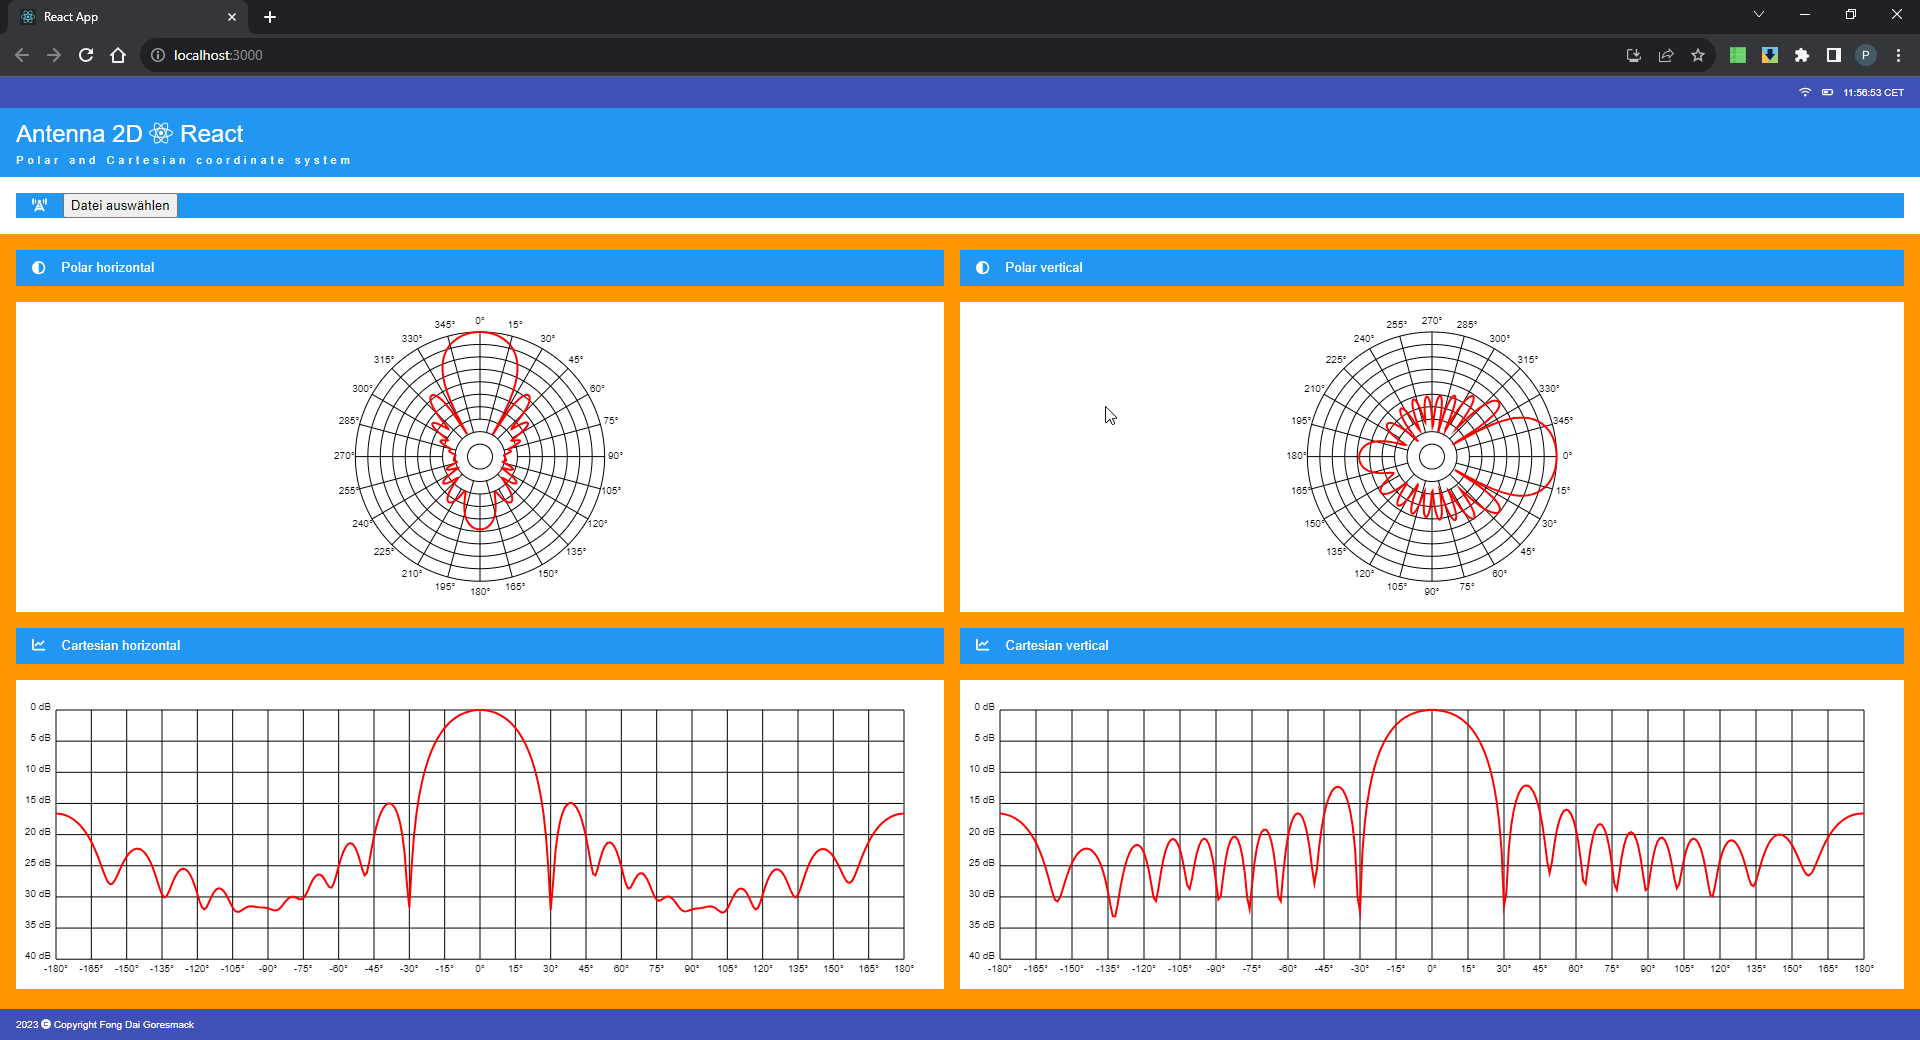
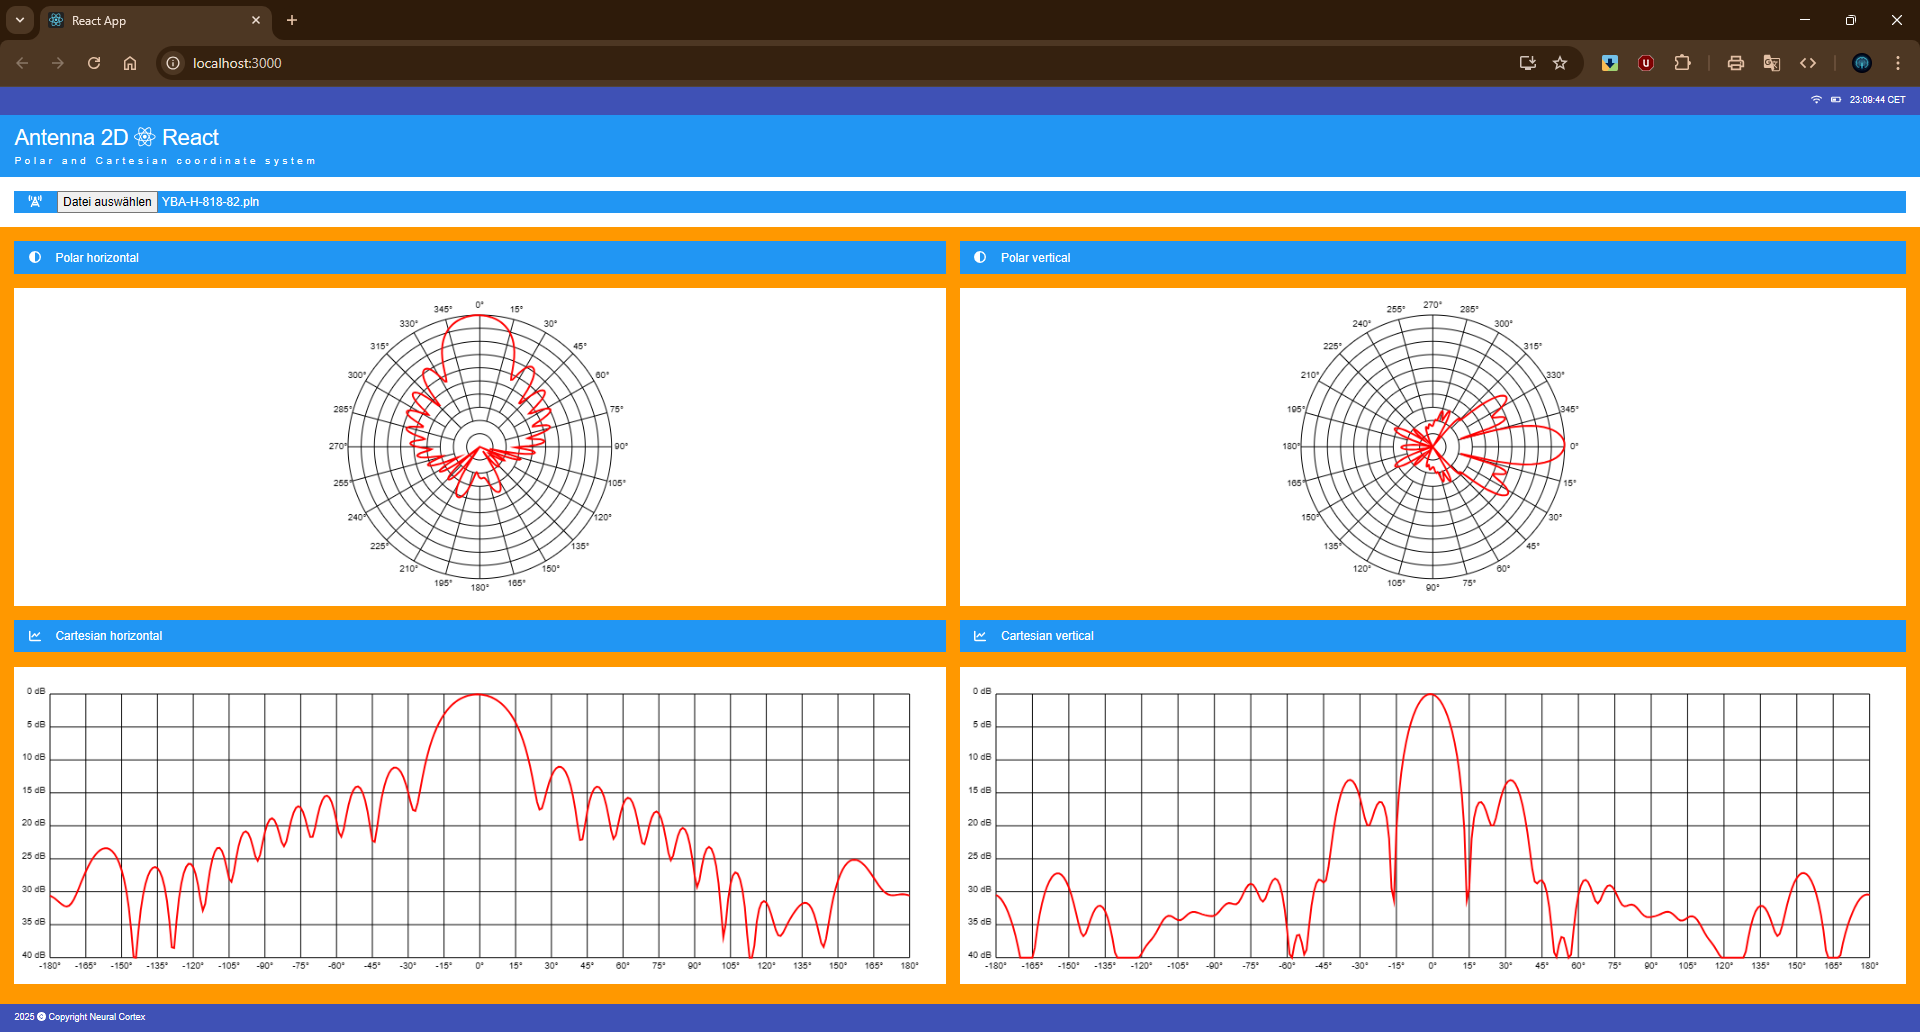
README.md Update

Changed region(s): [[0.0, 0.0, 1.0, 0.9922]]

diff --git a/src/components/Footer.jsx b/src/components/Footer.jsx
@@ -18,7 +18,7 @@ export class Footer extends Component {
     render() {
         return (
             <footer id="footer" className="w3-container w3-indigo w3-padding w3-tiny">
-                <label>{this.state.year} <FontAwesomeIcon icon="copyright"></FontAwesomeIcon> Copyright Fong Dai Goresmack</label>
+                <label>{this.state.year} <FontAwesomeIcon icon="copyright"></FontAwesomeIcon> Copyright Neural Cortex</label>
             </footer>
         );
     }

diff --git a/README.md b/README.md
@@ -1,25 +1,60 @@
-# Antenna 2D-Viewer React 1.0.0
+# Antenna 2D Viewer React 1.0.0
 
-The Antenna 2D viewer is a Web-App based on React that enables the user to view a radio antenna in Polar-view and Cartesian-View at the same time.</br>
+The Antenna 2D Viewer is a React-based web application that enables users to visualize radio antenna radiation patterns in both polar and Cartesian views simultaneously. This tool is designed for engineers, researchers, and enthusiasts working with antenna design and analysis.
 
-## How the web app works
+## Features
 
-To use the app, you need to execute following steps:
-1. Install Node.js
-2. Go to the project's main directory.
-3. Type `npm install` - Wait for Completion
-4. Type `npm start` for Development-Mode or
-5. Or type `npm run build` for Production-Mode
+- **Dual Visualization**: Displays antenna radiation patterns in both polar (radial) and Cartesian (rectangular) coordinate systems.
+- **Horizontal and Vertical Patterns**: Supports visualization of antenna performance in both azimuthal (horizontal) and elevation (vertical) planes.
+- **User-Friendly Interface**: Built with React for a responsive and interactive experience.
+- **Custom Data Input**: Accepts antenna pattern data via a structured text file.
 
-## Structure of a file
+## Antenna Patterns Explained
 
-The antenna to be imported must be available as a text file.
+Antenna radiation patterns illustrate how an antenna radiates or receives energy as a function of direction, which is critical for applications like wireless communications, radar, and broadcasting. The Antenna 2D Viewer provides two complementary views:
 
-### Internal structure
+- **Polar View**: Plots signal strength (attenuation in dB) as a function of angle (0° to 359°) in a polar coordinate system. The radial distance from the center represents attenuation, and the angular position indicates direction. This view highlights:
+  - **Main Lobe**: The direction of maximum radiation.
+  - **Side Lobes**: Secondary radiation directions.
+  - **Nulls**: Directions with minimal radiation.
+  For example, a directional antenna shows a prominent main lobe, while an omnidirectional antenna displays a near-circular pattern.
 
-The text file must contain following data:
+- **Cartesian View**: Plots attenuation (y-axis) against angle (x-axis, 0° to 359°) in a rectangular coordinate system. This view is ideal for analyzing specific angular ranges and comparing signal strengths, offering a linear perspective on the same data.
 
-<pre>
+The app supports both **horizontal** (azimuthal plane) and **vertical** (elevation plane) radiation patterns, enabling comprehensive analysis of an antenna's three-dimensional performance.
+
+## Installation
+
+To set up the Antenna 2D Viewer, follow these steps:
+
+1. **Install Node.js**: Download and install [Node.js](https://nodejs.org) if not already installed.
+2. **Clone or Download the Repository**: Obtain the project files from the repository.
+3. **Navigate to the Project Directory**:
+   ```bash
+   cd path/to/antenna-2d-viewer
+   ```
+4. **Install Dependencies**:
+   ```bash
+   npm install
+   ```
+   Wait for the installation to complete.
+5. **Run the Application**:
+   - For development mode:
+     ```bash
+     npm start
+     ```
+     This starts a local development server, typically at `http://localhost:3000`.
+   - For production mode:
+     ```bash
+     npm run build
+     ```
+     This creates an optimized build in the `build/` directory.
+
+## Input File Structure
+
+The app requires antenna pattern data in a text file with the following structure:
+
+```plaintext
 HORIZONTAL
 0 0.000
 1 0.001
@@ -41,84 +76,23 @@ VERTICAL
 357 0.028
 358 0.012
 359 0.003
-</pre>
+```
 
-The first value is the angle (0° - 359°).</br>
-The second value is the attenuation (0dB - 40dB).
+- **Format**:
+  - Each line contains two values: the angle (0° to 359°) and the attenuation (0 dB to 40 dB).
+  - **Angle**: Represents the direction in the horizontal or vertical plane.
+  - **Attenuation**: Indicates signal strength, where lower dB values represent stronger signals and higher values indicate greater attenuation.
+- **Sections**:
+  - **HORIZONTAL**: Data for the azimuthal plane (360° around the antenna’s horizontal axis).
+  - **VERTICAL**: Data for the elevation plane (360° relative to the antenna’s vertical axis).
 
-## Technology used
+## Technologies Used
 
-This web app was created with Create React App.
+- **Create React App**: Bootstrapped with [Create React App](https://github.com/facebook/create-react-app) for a robust development environment.
+- **Node.js**: Powers the development server and dependency management.
+- **Visual Studio Code**: Recommended for code editing.
+- **Google Chrome**: Used for testing and debugging.
 
-The following tools were used:
+## Getting Started
 
-- [Visual Studio Code](https://code.visualstudio.com/)
-- [Node.js](https://nodejs.org)
-- [Google Chrome](https://www.google.com/chrome/)
-
-
-## Getting Started with Create React App
-
-This project was bootstrapped with [Create React App](https://github.com/facebook/create-react-app).
-
-## Available Scripts
-
-In the project directory, you can run:
-
-### `npm start`
-
-Runs the app in the development mode.\
-Open [http://localhost:3000](http://localhost:3000) to view it in your browser.
-
-The page will reload when you make changes.\
-You may also see any lint errors in the console.
-
-### `npm run build`
-
-Builds the app for production to the `build` folder.\
-It correctly bundles React in production mode and optimizes the build for the best performance.
-
-The build is minified and the filenames include the hashes.\
-Your app is ready to be deployed!
-
-See the section about [deployment](https://facebook.github.io/create-react-app/docs/deployment) for more information.
-
-### `npm run eject`
-
-**Note: this is a one-way operation. Once you `eject`, you can't go back!**
-
-If you aren't satisfied with the build tool and configuration choices, you can `eject` at any time. This command will remove the single build dependency from your project.
-
-Instead, it will copy all the configuration files and the transitive dependencies (webpack, Babel, ESLint, etc) right into your project so you have full control over them. All of the commands except `eject` will still work, but they will point to the copied scripts so you can tweak them. At this point you're on your own.
-
-You don't have to ever use `eject`. The curated feature set is suitable for small and middle deployments, and you shouldn't feel obligated to use this feature. However we understand that this tool wouldn't be useful if you couldn't customize it when you are ready for it.
-
-## Learn More
-
-You can learn more in the [Create React App documentation](https://facebook.github.io/create-react-app/docs/getting-started).
-
-To learn React, check out the [React documentation](https://reactjs.org/).
-
-### Code Splitting
-
-This section has moved here: [https://facebook.github.io/create-react-app/docs/code-splitting](https://facebook.github.io/create-react-app/docs/code-splitting)
-
-### Analyzing the Bundle Size
-
-This section has moved here: [https://facebook.github.io/create-react-app/docs/analyzing-the-bundle-size](https://facebook.github.io/create-react-app/docs/analyzing-the-bundle-size)
-
-### Making a Progressive Web App
-
-This section has moved here: [https://facebook.github.io/create-react-app/docs/making-a-progressive-web-app](https://facebook.github.io/create-react-app/docs/making-a-progressive-web-app)
-
-### Advanced Configuration
-
-This section has moved here: [https://facebook.github.io/create-react-app/docs/advanced-configuration](https://facebook.github.io/create-react-app/docs/advanced-configuration)
-
-### Deployment
-
-This section has moved here: [https://facebook.github.io/create-react-app/docs/deployment](https://facebook.github.io/create-react-app/docs/deployment)
-
-### `npm run build` fails to minify
-
-This section has moved here: [https://facebook.github.io/create-react-app/docs/troubleshooting#npm-run-build-fails-to-minify](https://facebook.github.io/create-react-app/docs/troubleshooting#npm-run-build-fails-to-minify)
+This project was created using [Create React App](https://github.com/facebook/create-react-app). For additional details on available scripts and configuration options, refer to the [Create React App documentation](https://create-react-app.dev/docs/getting-started).
